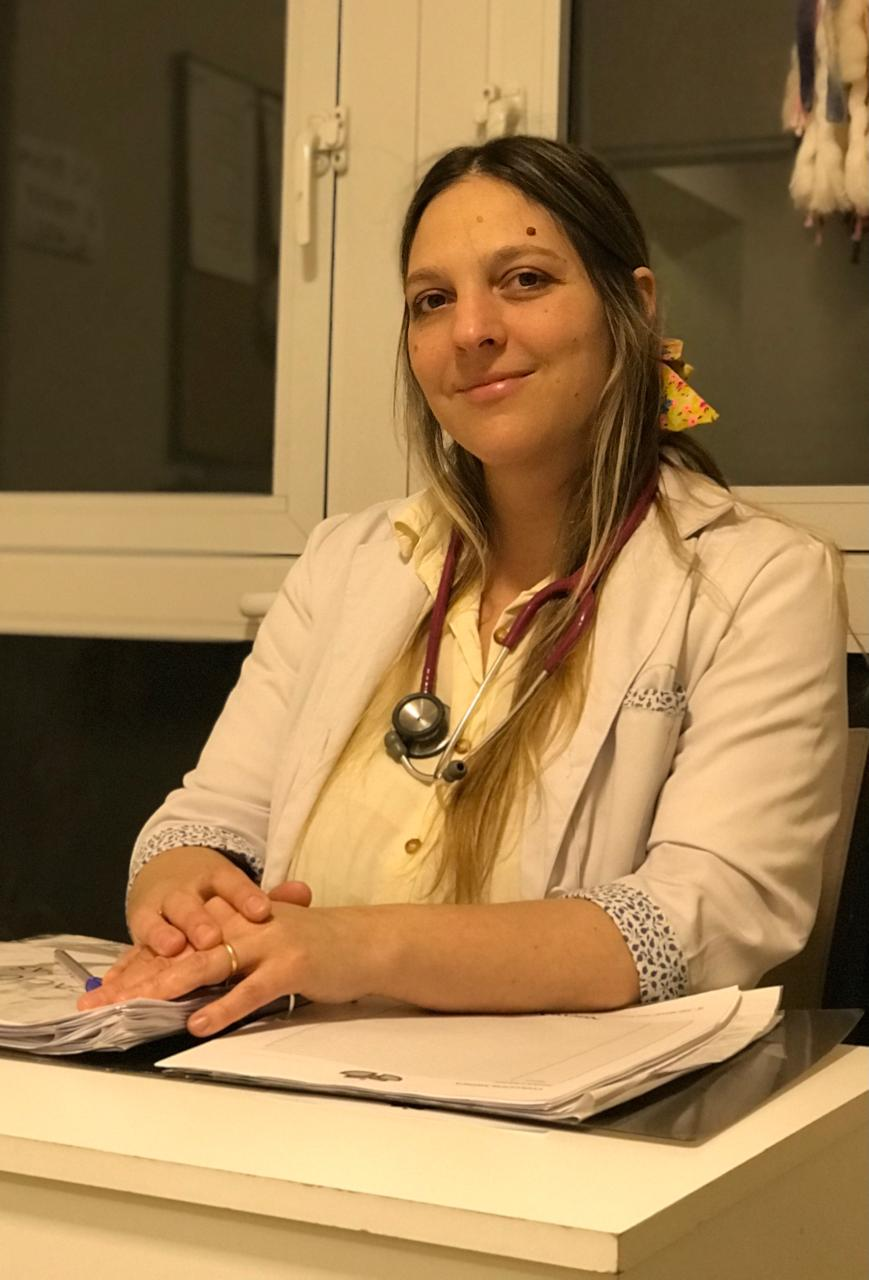
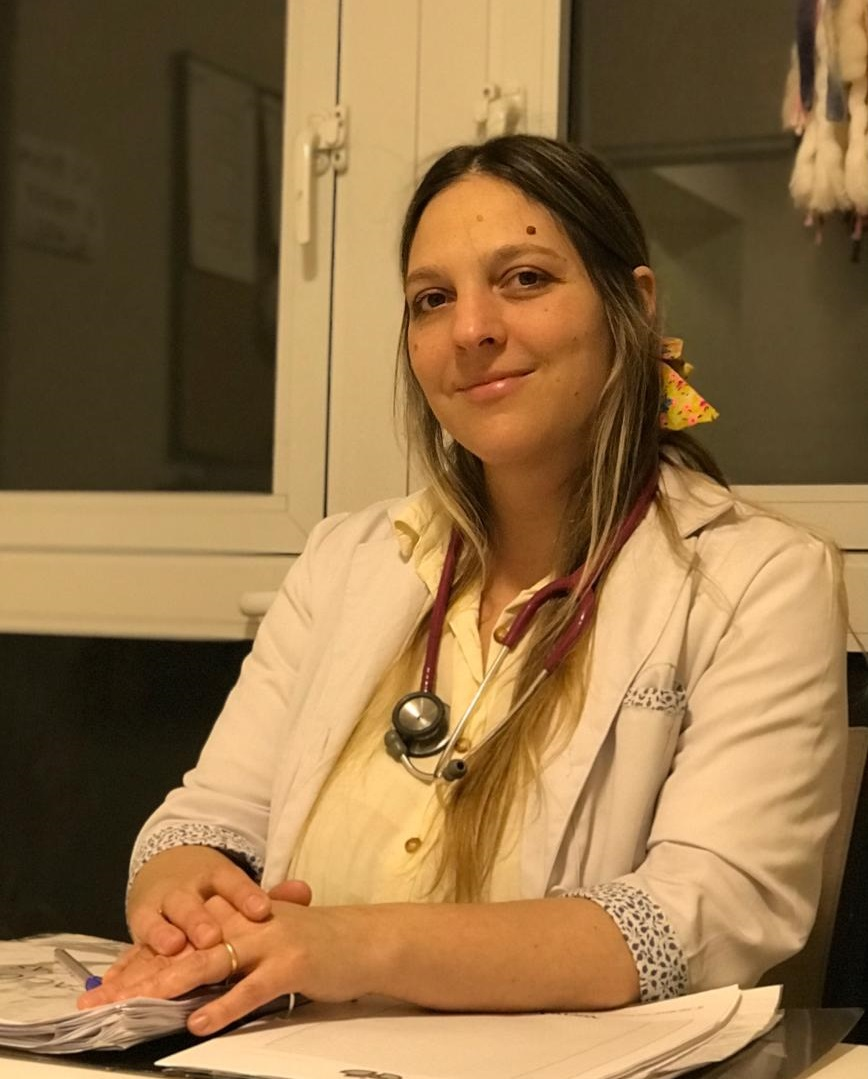
fix images

diff --git a/index.html b/index.html
@@ -327,7 +327,7 @@
                     </div>
                     <div class="col-lg-3">
                         <div class="team-member">
-                            <img class="mx-auto rounded-circle" src="assets/img/team/avatar.png" style="width: 220px; height: 220px; object-fit: cover;" alt="..." />
+                            <img class="mx-auto rounded-circle" src="assets/img/team/magali-sanchez.jpg" style="width: 220px; height: 220px; object-fit: cover;" alt="..." />
                             <h4>Lic. Magali Sanchez</h4>
                             <p class="text-muted">Kinesióloga</p>
                         </div>
